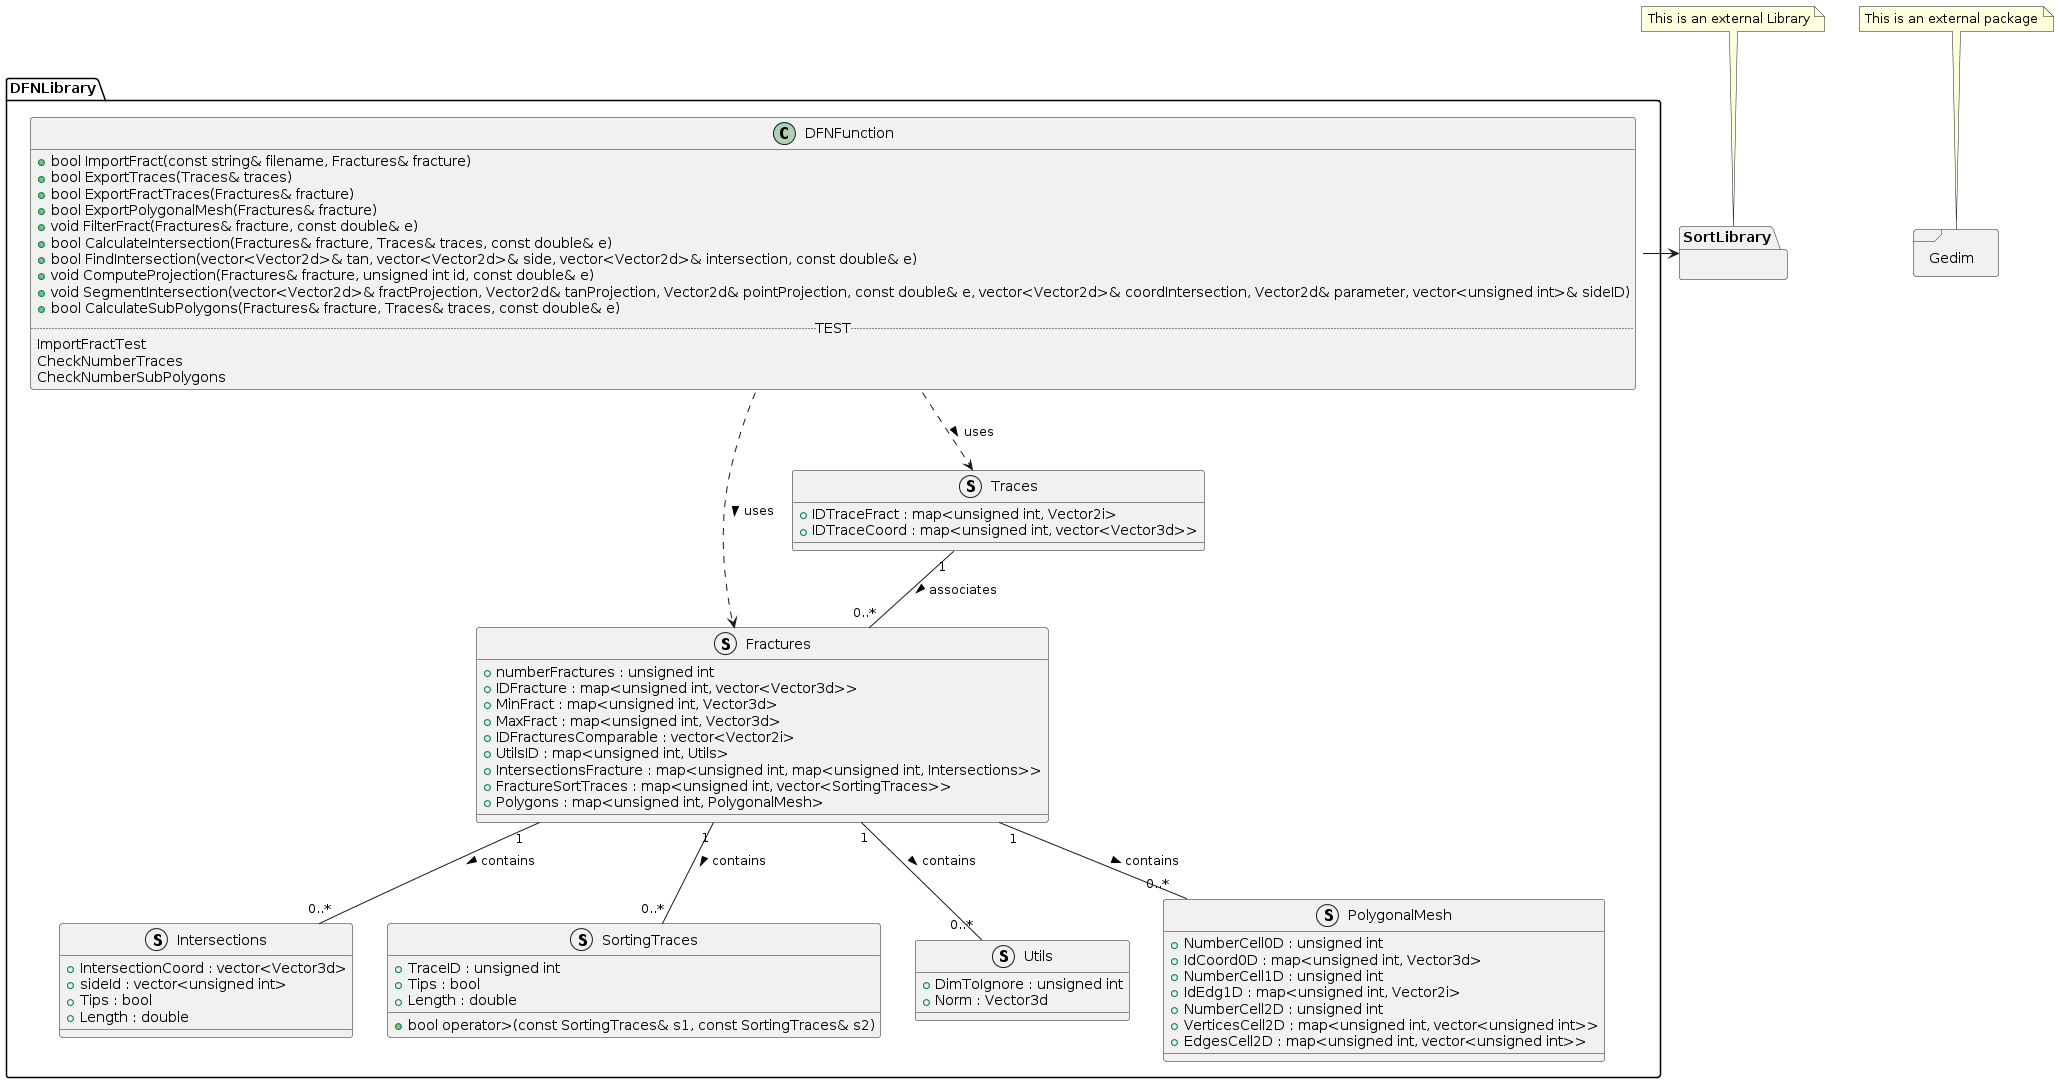
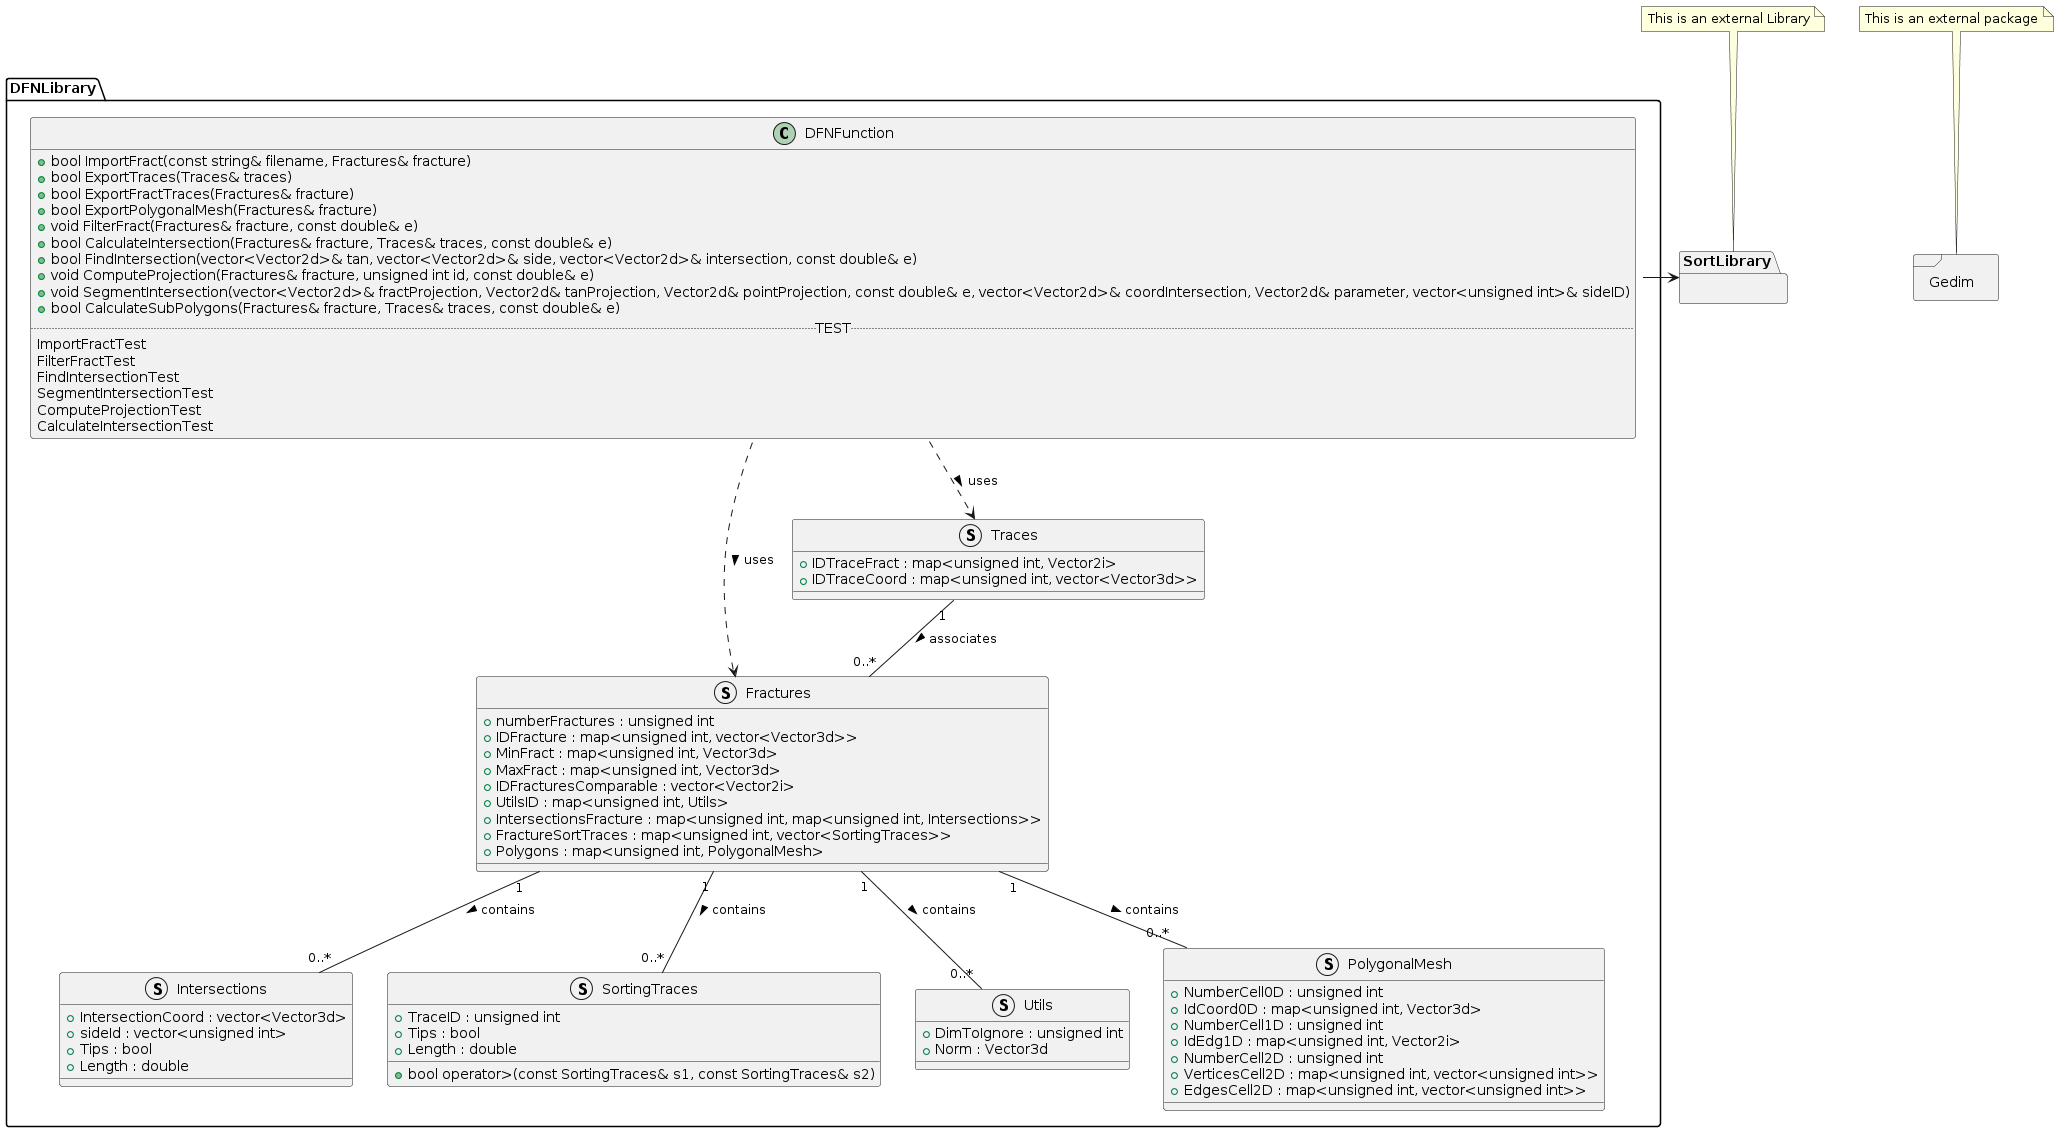
test aggiornati

diff --git a/Project/src/DFN_Test.hpp b/Project/src/DFN_Test.hpp
@@ -74,42 +74,91 @@ TEST(DFNTest, ImportFractTest)
     }
 }
 
-TEST(DFNTest, CheckNumberTraces)
+TEST(DFNTest, FilterFractTest)
 {
-    Fractures fracture;
-    Traces traces;
     const double e = epsilon();
+    Fractures fracture;
+    fracture.numberFractures = 3;
+    fracture.IDFracture[0] = {{0, 0, 0}, {1, 0, 0}, {1, 1, 0}, {0, 1, 0}};
+    fracture.IDFracture[1] = {{0.8, 0, -0.1}, {0.8, 0, 0.3}, {0.8, 1, 0.3}, {0.8, 1, -0.1}};
+    fracture.IDFracture[2] = {{-0.24, 0.5, -0.34}, {0.31,0.5,-0.34}, {0.31,0.5,0.45}, {-0.24,0.5,0.45}};
+    fracture.MinFract[0] = {0, 0, 0};
+    fracture.MaxFract[0] = {1, 1, 0};
+    fracture.MinFract[1] = {0.8, 0, -0.1};
+    fracture.MaxFract[1] = {0.8, 1, 0.3};
+    fracture.MinFract[2] = {-0.24, 0.5, -0.34};
+    fracture.MaxFract[2] = {0.31, 0.5, 0.45};
+
+    vector<Vector2i> possible = {{0,1}, {0,2}};
+
     FilterFract(fracture, e);
-    CalculateIntersection(fracture, traces, e);
-    int numFilteredFract = fracture.IDFracturesComparable.size();
-    int numTraces = traces.IDTraceFract.size();
-    ASSERT_GE(numFilteredFract, numTraces); // check that the number of possible intersections considered by the first filter is >= to the number of traces
+
+    EXPECT_EQ(fracture.IDFracturesComparable, possible);
 }
 
-TEST(DFNTest, CheckNumberSubPolygons)
+TEST(DFNTest, FindIntersectionTest)
 {
-    Fractures fracture;
     const double e = epsilon();
-    Traces traces;
-    CalculateIntersection(fracture, traces, e);
-    CalculateSubPolygons(fracture, traces, e);
-    ExportPolygonalMesh(fracture);
+    vector<Vector2d> tangente = {{0.8, 0}, {0.8, 1}};
+    vector<Vector2d> side1 = {{0, 0}, {1, 0}};
+    vector<Vector2d> side2 = {{0, 0}, {0, 1}};
+    vector<Vector2d> intersection;
 
-    // Esegui il test per ogni frattura
-    for (map<unsigned int, PolygonalMesh>::iterator it = fracture.Polygons.begin();
-         it != fracture.Polygons.end(); it++)
-    {
-        // Verifica il numero di celle (NumberCell2D) per la frattura attuale
-        unsigned int numCells = fracture.Polygons[it->first].NumberCell2D;
 
-        // Verifica il numero di tracce (IDTraceFract) per la frattura attuale
-        unsigned int numTraces = fracture.FractureSortTraces[it->first].size();
+    EXPECT_TRUE(FindIntersection(tangente, side1, intersection, e));
+    EXPECT_FALSE(FindIntersection(tangente, side2, intersection, e));
+}
 
-        // Verifica che il numero di celle sia maggiore o uguale al numero di tracce + 1
-        ASSERT_GE(numCells, numTraces + 1)<<"Numero celle " << numCells << " numero tracce " << numTraces << endl;
-    }
+TEST(DFNTest, SegmentIntersectionTest)
+{
+    const double e = epsilon();
+    vector<Vector2d> fractProj = {{0, 0}, {1, 0}, {1, 1}, {0, 1}};
+    Vector2d tanProj = {0, -0.4};
+    Vector2d pointProj = {0.8, 0};
+    vector<Vector2d> coordIntersection;
+    Vector2d parameter;
+    vector<unsigned int> sideID;
+
+    SegmentIntersection(fractProj, tanProj, pointProj, e, coordIntersection, parameter, sideID);
+
+    Vector2d par1 = {0, -2.5};
+
+    EXPECT_EQ(parameter, par1);
+}
+
+TEST(DFNTest, ComputeProjectionTest)
+{
+    const double e = epsilon();
+    Fractures fracture;
+    unsigned int id = 0;
+    fracture.IDFracture[id] = {{0, 0, 0}, {1, 0, 0}, {1, 1, 0}, {0, 1, 0}};
+
+    ComputeProjection(fracture, id, e);
+
+    Vector3d norm = {0, 0, 1};
+
+    EXPECT_EQ(fracture.UtilsID[id].Norm, norm);
+    EXPECT_EQ(fracture.UtilsID[id].DimToIgnore, 2);
 }
 
 
+TEST(DFNTest, CalculateIntersectionTest)
+{
+    const double e = epsilon();
+    Fractures fracture;
+    Traces traces;
+    fracture.IDFracturesComparable = {{0,1}, {0,2}};
+    fracture.IDFracture[0] = {{0, 0, 0}, {1, 0, 0}, {1, 1, 0}, {0, 1, 0}};
+    fracture.IDFracture[1] = {{0.8, 0, -0.1}, {0.8, 0, 0.3}, {0.8, 1, 0.3}, {0.8, 1, -0.1}};
+    fracture.IDFracture[2] = {{-0.24, 0.5, -0.34}, {0.31,0.5,-0.34}, {0.31,0.5,0.45}, {-0.24,0.5,0.45}};
+    fracture.UtilsID[0].Norm = {0,0,1};
+    fracture.UtilsID[1].Norm = {-4, 0, 0};
+    fracture.UtilsID[2].Norm = {0, -0.4, 0};
+    fracture.UtilsID[0].DimToIgnore = 2;
+    fracture.UtilsID[1].DimToIgnore = 0;
+    fracture.UtilsID[2].DimToIgnore = 1;
+
+    EXPECT_TRUE(CalculateIntersection(fracture, traces, e));
+}
 
 #endif // DFN_TEST_H

diff --git a/Project/src/Utils.cpp b/Project/src/Utils.cpp
@@ -136,7 +136,6 @@ void FilterFract(Fractures& fracture,
                 fracture.IDFracturesComparable.push_back({fract1, fract2}); //IDFractures to compare
             }
         }
-
     }
 }
 
@@ -237,9 +236,6 @@ void SegmentIntersection(vector<Vector2d>& fractProjection,
         //if the result of the product is positive the segments do not intersect each others
         product = (tanSegment[0][dep_v] - side[0][dep_v])*(tanSegment[1][dep_v] - side[1][dep_v]);
 
-
-
-
         if (product < -e)
         {
             if (!FindIntersection(tanSegment,
@@ -265,7 +261,7 @@ void SegmentIntersection(vector<Vector2d>& fractProjection,
 }
 
 void ComputeProjection(Fractures& fracture,
-                       unsigned int id,
+                       unsigned int& id,
                        const double& e)
 {
     if (fracture.UtilsID.find(id) == fracture.UtilsID.end())
@@ -287,11 +283,11 @@ void ComputeProjection(Fractures& fracture,
         //projection fracture on axes
         //find the dimension to ignore (ptrMin)
         unsigned int ptrMin = 0;
-        vector<Vector3d> unitvector = {{1, 0, 0}, {0, 1, 0}, {0, 0, 1}};
-        double valMin = nor.cross(unitvector[0]).norm();
+        vector<Vector3d> idMatrix = {{1, 0, 0}, {0, 1, 0}, {0, 0, 1}};
+        double valMin = nor.cross(idMatrix[0]).norm();
         for (unsigned int j = 1; j < 3; j++)
         {
-            double tmp = nor.cross(unitvector[j]).norm();
+            double tmp = nor.cross(idMatrix[j]).norm();
             if (tmp < valMin)
             {
                 valMin = tmp;

diff --git a/Project/src/Utils.hpp b/Project/src/Utils.hpp
@@ -29,7 +29,7 @@ bool FindIntersection(vector<Vector2d>& tan,
                       const double& e);
 
 void ComputeProjection(Fractures& fracture,
-                       unsigned int id,
+                       unsigned int& id,
                        const double& e);
 
 void SegmentIntersection(vector<Vector2d>& fractProjection,
